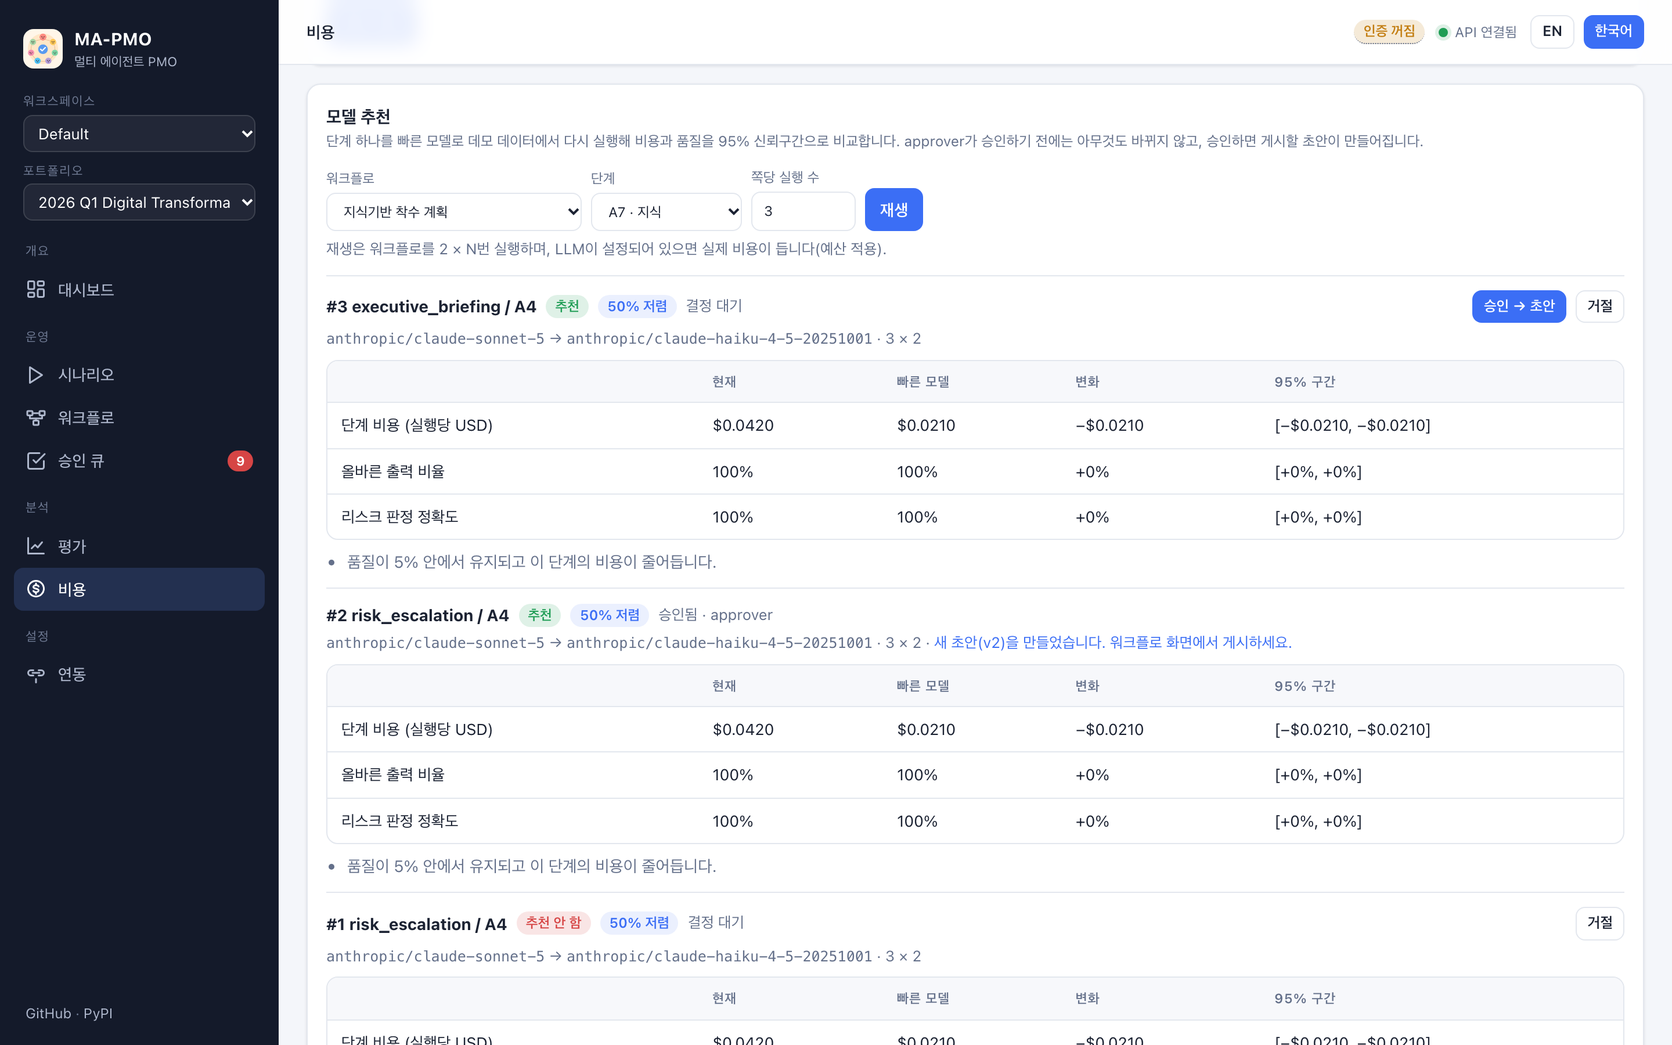
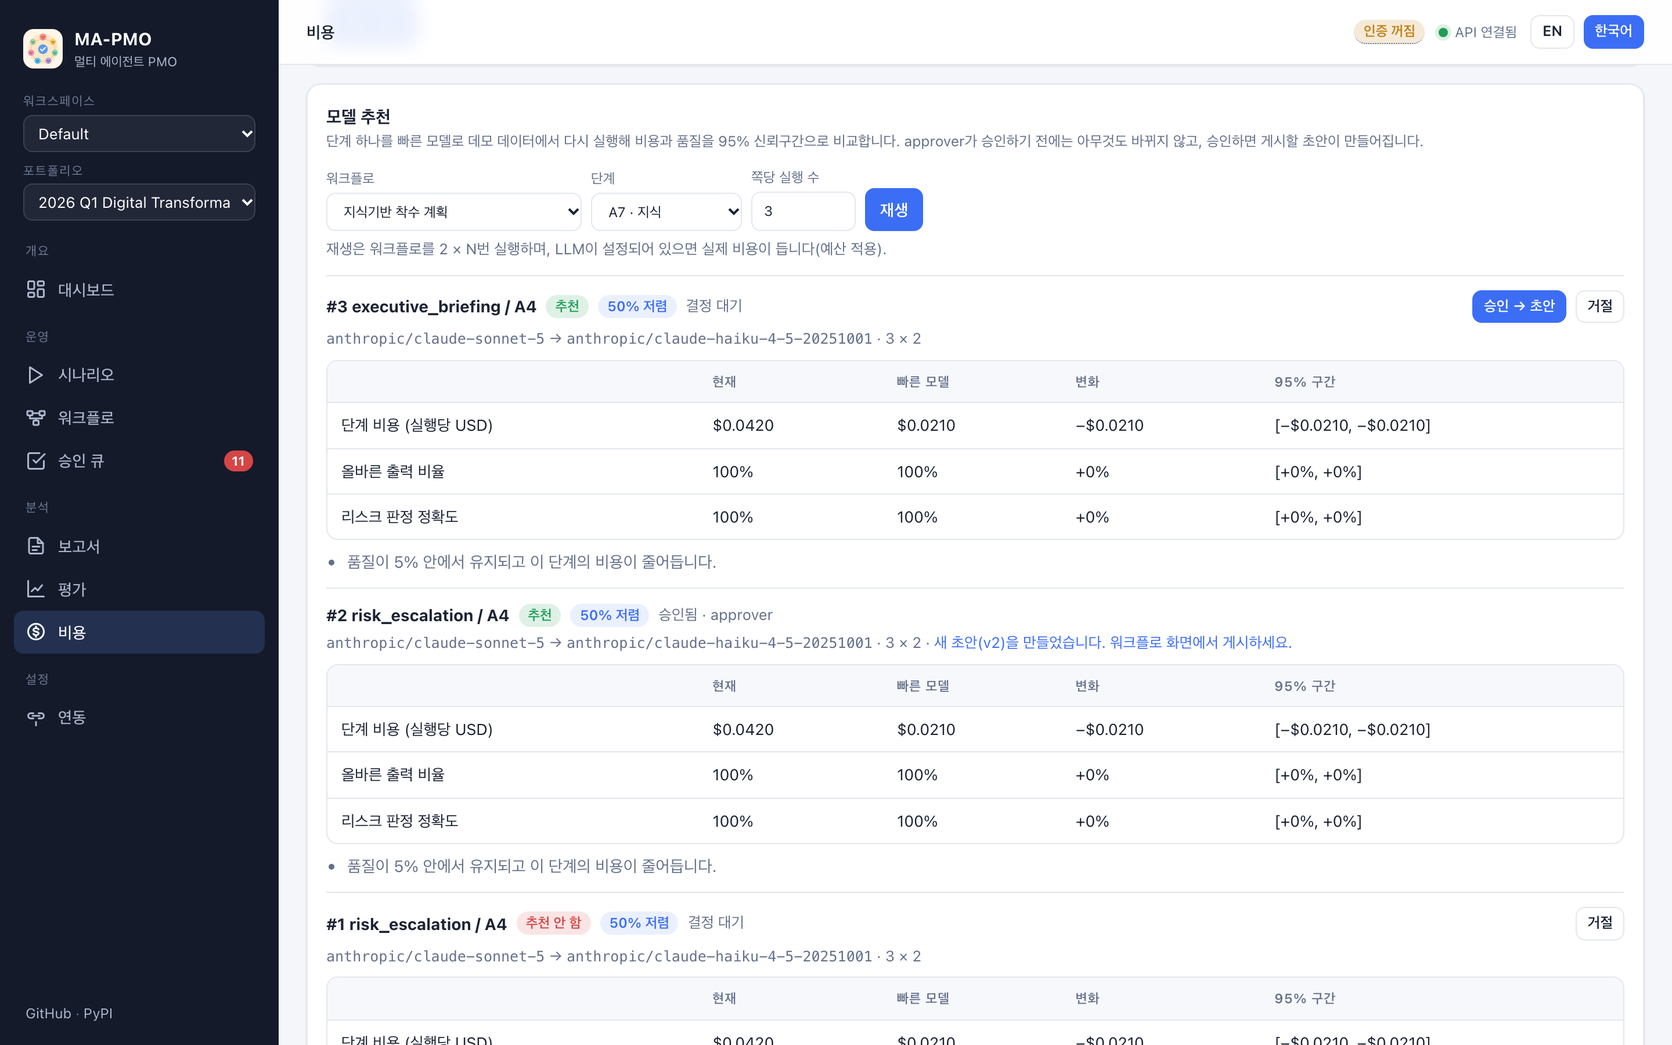
Release 0.8.0
Reports a PMO can send (roadmap 12) and the first benchmark step
(roadmap 3). Version 0.8.0 in pyproject, uv.lock, CITATION.cff and the
changelog. Every screenshot and the demo GIF retaken (the sidebar has a
Reports page now), with a reports screenshot in both READMEs; the
capture seed adds three weekly status reports and the one decision
review holds on the demo data (stage_gate_review), which the review
screenshot needs since 0.7.1. A5 compares a report only with reports
as of the same date or earlier.

Changed region(s): [[0.0, 0.4978, 0.1562, 0.6533]]

diff --git a/docs/capture-screenshots.js b/docs/capture-screenshots.js
@@ -1,11 +1,12 @@
 // Capture README screenshots and demo-GIF frames from a locally running dashboard.
 //
 // Prerequisites: API and dashboard running with demo data (`make db-init`, then
-// `python docs/capture_seed.py` for sample spend and recommendations, `make api`, `make web`),
+// `MA_PMO_REPORT_AS_OF=2026-02-16 python docs/capture_seed.py` for sample spend, recommendations
+// and reports, then `make api` and `make web` with the same MA_PMO_REPORT_AS_OF),
 // Google Chrome, and `npm install playwright-core` in a scratch folder.
 // usage: node capture-screenshots.js <outDir> [--gif] [--base http://localhost:3000] [--api http://localhost:8000]
 // Writes <page>-<en|ko>.png for dashboard, scenarios, scenario-trace, approvals, review (a held
-// decision in the queue), reports (an exception report the page writes in that language),
+// decision in the queue), reports (the seed's last weekly status report in that language),
 // evaluation, integrations, workflows (with a run), run-board, workflow-editor, costs and
 // recommendations (1440x900 @2x, light theme). With --gif, frames go to <outDir>/frames named NNN_<hold>.png,
 // where <hold> is the frame duration in ticks.
@@ -52,9 +53,11 @@ fs.mkdirSync(outDir, { recursive: true });
     await page.waitForTimeout(900); await shot(`scenario-trace-${lang}.png`);
     await go("/approvals", lang); await shot(`approvals-${lang}.png`);
     await top(page.locator("tr:has(+ tr.rv-row)")); await shot(`review-${lang}.png`);
-    await go("/reports", lang);
-    await page.locator("button", { hasText: lang === "ko" ? "리스크 에스컬레이션" : "Risk escalation" }).click();
-    await page.waitForSelector(".report-list li >> nth=0"); await page.waitForTimeout(1500);
+    // the seed's third weekly status report in this language: it has changes to show
+    const weekly = (await (await fetch(`${API}/reports?kind=status&limit=100`)).json())
+      .find((r) => r.language === lang && r.as_of === "2026-02-16");
+    await go(`/reports${weekly ? `?id=${weekly.id}` : ""}`, lang);
+    await page.waitForSelector(".report-frame"); await page.waitForTimeout(1500);
     await shot(`reports-${lang}.png`);
     await go("/evaluation", lang); await shot(`evaluation-${lang}.png`);
     await go("/integrations", lang); await shot(`integrations-${lang}.png`);

diff --git a/docs/capture_seed.py b/docs/capture_seed.py
@@ -1,4 +1,4 @@
-"""Sample history for the README screenshots: runs, LLM spend, budgets and recommendations.
+"""Sample history for the README screenshots: runs, LLM spend, budgets, recommendations, reports.
 
 The screenshots of the Costs page and the workflow views need some history, and the demo data
 has none (without an API key nothing is spent). This script makes it with a stand-in provider:
@@ -6,9 +6,9 @@ it answers risk ratings the way a model would and reports token counts, so every
 those pages comes from the real ledger, budgets and replay code, but the spend is sample data.
 No request leaves the machine.
 
-usage (on a fresh demo database, before starting the API):
+usage (on a fresh demo database, before starting the API with the same MA_PMO_REPORT_AS_OF):
     DB_URL=sqlite:///capture.db ma-pmo init-db
-    DB_URL=sqlite:///capture.db python docs/capture_seed.py
+    DB_URL=sqlite:///capture.db MA_PMO_REPORT_AS_OF=2026-02-16 python docs/capture_seed.py
 """
 from __future__ import annotations
 
@@ -19,6 +19,7 @@ import litellm
 
 from ma_pmo.core import budgets, llm, replay
 from ma_pmo.core.config import get_settings
+from ma_pmo.core.i18n import use_lang
 from ma_pmo.core.scenarios import run_scenario
 from ma_pmo.db import workspaces
 
@@ -50,8 +51,9 @@ def main() -> None:
     llm.litellm.completion = completion
     if not workspaces.exists("research"):
         workspaces.create("research", "Research lab")
+    # stage_gate_review leaves the one decision review holds on the demo data (PROJ-31's G2 gate)
     for scenario in ("weekly_status", "risk_escalation", "executive_briefing",
-                     "risk_escalation", "weekly_status"):
+                     "risk_escalation", "weekly_status", "stage_gate_review"):
         run_scenario(scenario)
     budgets.set_budget("month", 8.0, 10.0, "admin")
     budgets.set_budget("run", None, 0.5, "admin")
@@ -62,7 +64,18 @@ def main() -> None:
     approved = replay.replay("risk_escalation", "A4", repeat=3, by="operator")
     replay.decide(approved["id"], "approved", "approver")
     replay.replay("executive_briefing", "A4", repeat=3, by="operator")
-    print("seeded: runs, spend, budgets and", len(replay.recommendations()), "recommendations")
+
+    # three weekly status reports up to the as-of date the screenshots use, with nothing moving
+    # in between, so the latest one has something to say since the last report
+    settings = get_settings()
+    for lang in ("en", "ko"):
+        with use_lang(lang):
+            for day in ("2026-02-02", "2026-02-09", "2026-02-16"):
+                settings.report_as_of = day
+                run_scenario("weekly_status")
+    settings.report_as_of = None
+    print("seeded: runs, spend, budgets, reports and", len(replay.recommendations()),
+          "recommendations")
 
 
 if __name__ == "__main__":

diff --git a/ma_pmo/agents/reporting.py b/ma_pmo/agents/reporting.py
@@ -119,10 +119,13 @@ class ReportingAgent(BaseAgent[ReportV1]):
         kind_spec = kinds.spec(kind)
         projects = state.get("projects")
         status = self.tracker.get_portfolio_status(scope)
-        earlier = report_facts.earlier_reports(scope, kind, projects)
+        as_of = report_facts.as_of_date(state.get("as_of"))
+        # compare only with reports as of this date or before (a report can be written for a past
+        # date after later ones)
+        earlier = [e for e in report_facts.earlier_reports(scope, kind, projects)
+                   if e[1] <= as_of.isoformat()]
         facts = report_facts.build(
-            status, earlier[0] if earlier else None,
-            today=report_facts.as_of_date(state.get("as_of")), projects=projects,
+            status, earlier[0] if earlier else None, today=as_of, projects=projects,
             board=state.get("board"), steps=state.get("board_steps"))
         found = insights.build(facts, earlier)
         if projects:  # a project report: the narrative sees only those projects

diff --git a/ma_pmo/reports/store.py b/ma_pmo/reports/store.py
@@ -35,6 +35,7 @@ def _summary(row: Report) -> dict[str, Any] | None:
         return None
     return {"id": row.id, "scope": row.scope, "kind": c.get("kind", "status"),
             "title": c.get("title", ""), "as_of": c["facts"]["as_of"],
+            "language": c.get("language", "en"),
             "overall_status": c["overall_status"], "path": c["path"],
             "projects": c["facts"].get("projects_in_scope"),
             "created_at": iso(row.created_at)}

diff --git a/README.md b/README.md
@@ -29,7 +29,8 @@ MA-PMO turns the proof-of-concept simulation of the *MA-PMO* paper into a real, 
 - **Structured, auditable communication** — Pydantic `.v1` message schemas instead of free-form chat, stored in an append-only log.
 - **Human-in-the-loop** — high-severity risks, failed gates and low-confidence messages wait in an approval queue.
 - **Decisions checked against each other** — a gate the risk agent contradicts, or a report that leaves out a risk, does not quietly go through: builder and dedicated reviews post per-constraint verdicts with evidence, and a commit gate sends challenged decisions to a person with both sides attached ([evaluation](https://github.com/ma-pmo/ma-pmo-ext/blob/main/docs/REVIEW-EVAL.md)).
-- **Measurable** — five-axis KPIs (time, resource, delivery, risk, cost), 20 lifecycle scenarios and an experiment harness that exports paper-ready Markdown.
+- **Reports a PMO can send** — status, executive, exception, gate and closure reports; figures computed from the plan (time-based SPI, forecast finish, tolerances), what changed since the last report, and an LLM narrative checked against the figures. Read and download them (HTML, Markdown, CSV, JSON, PDF by printing) on the Reports page, the API or `ma-pmo report` ([docs/REPORTS.md](https://github.com/ma-pmo/ma-pmo-ext/blob/main/docs/REPORTS.md)).
+- **Measurable** — five-axis KPIs (time, resource, delivery, risk, cost), 20 lifecycle scenarios, an experiment harness that exports paper-ready Markdown, and a benchmark on 2.7 million public Jira issues in progress ([docs/BENCHMARK.md](https://github.com/ma-pmo/ma-pmo-ext/blob/main/docs/BENCHMARK.md)).
 - **Bilingual** — dashboard, API responses, reports and LLM output in English or Korean (`?lang=ko`, `Accept-Language`, or `MA_PMO_LANG`).
 - **Pluggable integrations** — Slack and webhook notifications; Jira Cloud, GitHub or Linear as the data source; .ics resource calendars; and a plugin entry point for your own.
 - **Evaluate on your own data** — fill-in data templates with line-by-line validation, H1–H5 reports with verdicts (Markdown/HTML), and an experiment scaffold (`ma-pmo harness new`).
@@ -38,7 +39,7 @@ MA-PMO turns the proof-of-concept simulation of the *MA-PMO* paper into a real, 
 - **Workspaces** — teams or clients kept apart down to the database (Postgres row-level security), roles per workspace, and a workspace and portfolio switcher in the dashboard.
 - **Workflows you can see and change** — each workflow drawn as parallel stages with a live run overlay; an editor checked as you type, a dry run on demo data, and versions: a draft runs only after an approver publishes it.
 - **LLM cost control** — a ledger of every call priced from a versioned table, monthly and per-run budgets that fall back to deterministic logic instead of failing, a fast model per step, and replay-based recommendations (95% intervals) that a person approves.
-- **Admin dashboard** — sidebar navigation with a pending-approvals badge, Workflows, Evaluation, Costs and Integrations pages, light/dark themes and a mobile layout.
+- **Admin dashboard** — sidebar navigation with a pending-approvals badge, Workflows, Reports, Evaluation, Costs and Integrations pages, light/dark themes and a mobile layout.
 
 ## Screenshots
 
@@ -55,8 +56,10 @@ MA-PMO turns the proof-of-concept simulation of the *MA-PMO* paper into a real, 
 | ![Costs page with spend, calls, tokens and monthly and per-run budgets](https://raw.githubusercontent.com/ma-pmo/ma-pmo-ext/main/docs/assets/costs-en.png) | ![Replay results comparing the standard and fast model with 95% intervals, approve or reject](https://raw.githubusercontent.com/ma-pmo/ma-pmo-ext/main/docs/assets/recommendations-en.png) |
 | **A challenged decision waiting for a person** | **The run's board: reads, verdicts, commits** |
 | ![Approval queue with a gate held for review: challenges from the builder and the dedicated reviewer, citing A4's risk alert](https://raw.githubusercontent.com/ma-pmo/ma-pmo-ext/main/docs/assets/review-en.png) | ![Run board with each step's read mode, posts and verdicts, and decisions committed or held](https://raw.githubusercontent.com/ma-pmo/ma-pmo-ext/main/docs/assets/run-board-en.png) |
+| **Reports: what changed, figures, downloads** | |
+| ![Reports page: list of status and executive reports, the selected weekly status report with what changed since the last one, and download buttons](https://raw.githubusercontent.com/ma-pmo/ma-pmo-ext/main/docs/assets/reports-en.png) | |
 
-Korean UI: [dashboard](https://raw.githubusercontent.com/ma-pmo/ma-pmo-ext/main/docs/assets/dashboard-ko.png) · [scenario trace](https://raw.githubusercontent.com/ma-pmo/ma-pmo-ext/main/docs/assets/scenario-trace-ko.png) · [evaluation](https://raw.githubusercontent.com/ma-pmo/ma-pmo-ext/main/docs/assets/evaluation-ko.png) · [approvals](https://raw.githubusercontent.com/ma-pmo/ma-pmo-ext/main/docs/assets/approvals-ko.png) · [scenarios](https://raw.githubusercontent.com/ma-pmo/ma-pmo-ext/main/docs/assets/scenarios-ko.png) · [integrations](https://raw.githubusercontent.com/ma-pmo/ma-pmo-ext/main/docs/assets/integrations-ko.png) · [workflows](https://raw.githubusercontent.com/ma-pmo/ma-pmo-ext/main/docs/assets/workflows-ko.png) · [workflow editor](https://raw.githubusercontent.com/ma-pmo/ma-pmo-ext/main/docs/assets/workflow-editor-ko.png) · [costs](https://raw.githubusercontent.com/ma-pmo/ma-pmo-ext/main/docs/assets/costs-ko.png) · [recommendations](https://raw.githubusercontent.com/ma-pmo/ma-pmo-ext/main/docs/assets/recommendations-ko.png) · [review](https://raw.githubusercontent.com/ma-pmo/ma-pmo-ext/main/docs/assets/review-ko.png) · [run board](https://raw.githubusercontent.com/ma-pmo/ma-pmo-ext/main/docs/assets/run-board-ko.png). The spend on the Costs screenshots is sample data from [docs/capture_seed.py](https://github.com/ma-pmo/ma-pmo-ext/blob/main/docs/capture_seed.py). Light and dark themes follow the OS setting.
+Korean UI: [dashboard](https://raw.githubusercontent.com/ma-pmo/ma-pmo-ext/main/docs/assets/dashboard-ko.png) · [scenario trace](https://raw.githubusercontent.com/ma-pmo/ma-pmo-ext/main/docs/assets/scenario-trace-ko.png) · [evaluation](https://raw.githubusercontent.com/ma-pmo/ma-pmo-ext/main/docs/assets/evaluation-ko.png) · [approvals](https://raw.githubusercontent.com/ma-pmo/ma-pmo-ext/main/docs/assets/approvals-ko.png) · [scenarios](https://raw.githubusercontent.com/ma-pmo/ma-pmo-ext/main/docs/assets/scenarios-ko.png) · [integrations](https://raw.githubusercontent.com/ma-pmo/ma-pmo-ext/main/docs/assets/integrations-ko.png) · [workflows](https://raw.githubusercontent.com/ma-pmo/ma-pmo-ext/main/docs/assets/workflows-ko.png) · [workflow editor](https://raw.githubusercontent.com/ma-pmo/ma-pmo-ext/main/docs/assets/workflow-editor-ko.png) · [costs](https://raw.githubusercontent.com/ma-pmo/ma-pmo-ext/main/docs/assets/costs-ko.png) · [recommendations](https://raw.githubusercontent.com/ma-pmo/ma-pmo-ext/main/docs/assets/recommendations-ko.png) · [review](https://raw.githubusercontent.com/ma-pmo/ma-pmo-ext/main/docs/assets/review-ko.png) · [run board](https://raw.githubusercontent.com/ma-pmo/ma-pmo-ext/main/docs/assets/run-board-ko.png) · [reports](https://raw.githubusercontent.com/ma-pmo/ma-pmo-ext/main/docs/assets/reports-ko.png). The spend on the Costs screenshots and the report history are sample data from [docs/capture_seed.py](https://github.com/ma-pmo/ma-pmo-ext/blob/main/docs/capture_seed.py). Light and dark themes follow the OS setting.
 
 ## Quick start
 

diff --git a/README.ko.md b/README.ko.md
@@ -29,7 +29,8 @@
 - **구조화·감사 가능한 통신** — 자유형 대화 대신 Pydantic `.v1` 메시지 스키마를 쓰고, append-only 로그로 저장합니다.
 - **Human-in-the-loop** — 고심각도 리스크, 게이트 실패, 저신뢰 메시지는 승인 큐에서 대기합니다.
 - **결정끼리 서로 대조** — 리스크 에이전트와 어긋나는 게이트 통과나 리스크를 빠뜨린 보고서가 조용히 넘어가지 않습니다. builder·전담 검토가 근거와 함께 제약별 판정을 남기고, 확정 게이트가 이의가 있는 결정을 양쪽 근거와 함께 사람에게 보냅니다([평가](docs/REVIEW-EVAL.ko.md)).
-- **측정 가능** — 5축 KPI(시간·자원·전달·리스크·비용), 20개 생애주기 시나리오, 논문용 Markdown을 내보내는 실험 하네스를 제공합니다.
+- **PMO가 보낼 수 있는 보고서** — 상태·경영진·예외·게이트·종료 보고서. 수치는 계획에서 계산하고(시간 기준 SPI, 예상 완료일, 허용 범위), 직전 보고 이후 변화를 짚으며, LLM 서술은 수치와 대조해 검사합니다. 보고서 화면, API, `ma-pmo report`로 보고 내려받습니다(HTML·Markdown·CSV·JSON, 인쇄로 PDF)([docs/REPORTS.ko.md](docs/REPORTS.ko.md)).
+- **측정 가능** — 5축 KPI(시간·자원·전달·리스크·비용), 20개 생애주기 시나리오, 논문용 Markdown을 내보내는 실험 하네스, 공개 Jira 이슈 270만 개로 만드는 벤치마크(진행 중, [docs/BENCHMARK.ko.md](docs/BENCHMARK.ko.md))를 제공합니다.
 - **영어/한국어 지원** — 대시보드, API 응답, 보고서, LLM 출력을 영어 또는 한국어로 제공합니다(`?lang=ko`, `Accept-Language`, `MA_PMO_LANG`).
 - **플러그인 연동** — Slack·웹훅 알림, Jira Cloud·GitHub·Linear 데이터 연결, .ics 자원 캘린더, 직접 만든 연동을 꽂는 플러그인 구조를 지원합니다.
 - **우리 조직 데이터로 평가** — 데이터 입력 양식과 줄 단위 검사, 판정이 담긴 H1~H5 보고서(Markdown/HTML), 실험 뼈대 생성(`ma-pmo harness new`)을 제공합니다.
@@ -38,7 +39,7 @@
 - **워크스페이스** — 팀이나 고객사를 데이터베이스 수준까지 분리하고(Postgres 행 수준 보안), 워크스페이스마다 역할을 주며, 대시보드에서 워크스페이스와 포트폴리오를 고릅니다.
 - **보고 고칠 수 있는 워크플로** — 각 워크플로를 병렬 단계 그래프로 그리고 실행 상태를 실시간으로 겹쳐 보여 줍니다. 입력하는 동안 검사하는 편집기, 데모 데이터로 시험 실행, 버전 관리를 지원하며, 초안은 approver가 게시해야 실행됩니다.
 - **LLM 비용 관리** — 버전이 있는 가격표로 매긴 모든 호출의 원장, 넘으면 실패 대신 결정론적 방식으로 넘어가는 월·실행 예산, 단계별 빠른 모델, 재생 결과(95% 구간)에 근거해 사람이 승인하는 모델 추천.
-- **관리자 대시보드** — 승인 대기 배지가 있는 사이드바, 워크플로·평가·비용·연동 화면, 라이트/다크 테마, 모바일 화면을 지원합니다.
+- **관리자 대시보드** — 승인 대기 배지가 있는 사이드바, 워크플로·보고서·평가·비용·연동 화면, 라이트/다크 테마, 모바일 화면을 지원합니다.
 
 ## 스크린샷 (한국어 UI)
 
@@ -55,8 +56,10 @@
 | ![비용, 호출 수, 토큰, 월·실행 예산이 있는 비용 화면](docs/assets/costs-ko.png) | ![표준 모델과 빠른 모델을 95% 구간으로 비교하고 승인·거절하는 재생 결과](docs/assets/recommendations-ko.png) |
 | **사람을 기다리는 이의 제기된 결정** | **실행 게시판: 읽기 범위, 판정, 확정** |
 | ![검토 대기로 보류된 게이트와 담당 에이전트·전담 검토자의 이의, A4 리스크 경보 인용](docs/assets/review-ko.png) | ![단계별 읽기 범위·게시물·판정과 확정·보류된 결정이 보이는 실행 게시판](docs/assets/run-board-ko.png) |
+| **보고서: 직전 보고 이후 변화, 수치, 내려받기** | |
+| ![보고서 화면: 상태·경영진 보고서 목록, 직전 보고 이후 변화가 있는 주간 상태 보고서, 내려받기 버튼](docs/assets/reports-ko.png) | |
 
-비용 화면 스크린샷의 금액은 [docs/capture_seed.py](docs/capture_seed.py)로 만든 예시 데이터입니다. 라이트·다크 테마는 OS 설정을 따릅니다.
+비용 화면 스크린샷의 금액과 보고서 이력은 [docs/capture_seed.py](docs/capture_seed.py)로 만든 예시 데이터입니다. 라이트·다크 테마는 OS 설정을 따릅니다.
 
 ## 빠른 시작
 

diff --git a/CHANGELOG.md b/CHANGELOG.md
@@ -6,6 +6,10 @@ All notable changes to this project are documented here. The format follows [Kee
 
 ## [Unreleased]
 
+## [0.8.0] - 2026-11-20
+
+Reports a PMO can send (roadmap 12): five kinds for different readers, figures computed from the plan rather than written by the LLM, what changed since the last report, a check that the LLM's narrative matches the figures, and a reports page with downloads. Also the first step of the benchmark on public Jira history (roadmap 3).
+
 ### Added
 - **Reports page in the dashboard** (roadmap 12): reports newest first with a kind filter, the selected one shown as it downloads, what changed since the last report, buttons to download HTML, Markdown, CSV or JSON, print or save as PDF, and to write a new one by running a report workflow. Downloads carry the workspace and API key headers.
 - **Reports say what changed, and an LLM's narrative is checked** (roadmap 12, step 2; [docs/REPORTS.md](docs/REPORTS.md)). Rules compare each report with the earlier ones of the same scope and kind (`reports/insights.py`): tolerance breached or cleared, status worse or better, forecast slipped, no progress, new high risk, SPI falling three reports in a row; each cites its facts, suggests an action and is ranked by severity, and they lead the report ("Since the last report"). Every number, date and id in an LLM's narrative is checked against the facts (`reports/grounding.py`); one that does not match replaces the narrative with the rule narrative, marks the fallback on the trace, and is recorded under `grounding` in report.v2.
@@ -204,6 +208,10 @@ First public release.
 ## 변경 내역 (한국어)
 
 ### [Unreleased]
+
+### [0.8.0] - 2026-11-20
+
+PMO가 보낼 수 있는 보고서(로드맵 12): 받는 사람별 다섯 종류, LLM이 아니라 계획에서 계산한 수치, 직전 보고 이후 변화, LLM 서술이 수치와 맞는지 검사, 내려받기가 있는 보고서 화면. 공개 Jira 이력 벤치마크(로드맵 3)의 첫 단계도 들어 있습니다.
 
 - 추가: **대시보드 보고서 화면**(로드맵 12). 최신순 목록과 종류 필터, 내려받을 때와 같은 모습의 보고서, 직전 보고 이후 변화, HTML·Markdown·CSV·JSON 내려받기, 인쇄·PDF 저장, 보고 워크플로를 실행해 새 보고서를 쓰는 버튼. 내려받기에도 워크스페이스와 API 키 헤더가 붙습니다.
 - 추가: **보고서가 바뀐 것을 말하고, LLM 서술을 검사합니다**(로드맵 12, 2단계. [docs/REPORTS.ko.md](docs/REPORTS.ko.md)). 규칙이 같은 범위·종류의 이전 보고서와 비교합니다(`reports/insights.py`): 허용 범위 이탈·복귀, 상태 악화·개선, 예상 완료일 지연, 진척 없음, 새 high 리스크, SPI 3회 연속 하락. 각각 근거 사실을 인용하고 조치를 제안하며 중요도 순으로 보고서 앞에 옵니다("직전 보고 이후"). LLM 서술의 모든 숫자·날짜·id를 사실과 대조하고(`reports/grounding.py`), 하나라도 맞지 않으면 규칙 서술로 바꾸고 추적에 대체 경로를 표시하며 report.v2의 `grounding`에 기록합니다.
